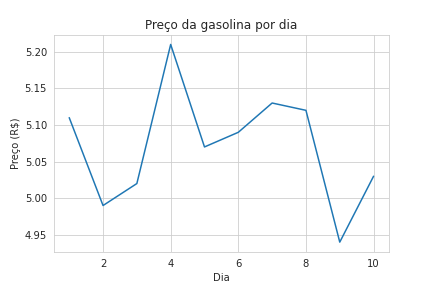
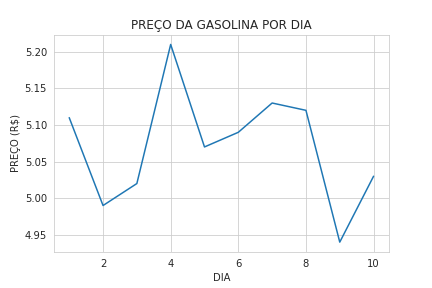
arquivos gasolina.py, gasolina.csv e gasolina.png alterados

Changed region(s): [[0.3009, 0.0625, 0.7222, 0.125], [0.0, 0.4062, 0.0602, 0.5938], [0.5116, 0.9375, 0.5417, 0.9688]]

diff --git a/gasolina.py b/gasolina.py
@@ -1,12 +1,13 @@
+# código de geração do gráfico 
 import pandas as pd
 import seaborn as sns
 import matplotlib.pyplot as plt
 
 gasolina_df = pd.read_csv('gasolina.csv', sep=',')
-gasolina_df
+
 with sns.axes_style('whitegrid'):
 
   grafico = sns.lineplot(data=gasolina_df, x="dia", y="venda", palette="tab10")
-  grafico.set(title='Preço da gasolina por dia', xlabel='Dia', ylabel='Preço (R$)');
+  grafico.set(title='PREÇO DA GASOLINA POR DIA', xlabel='DIA', ylabel='PREÇO (R$)');
 
 plt.savefig('gasolina.png')
